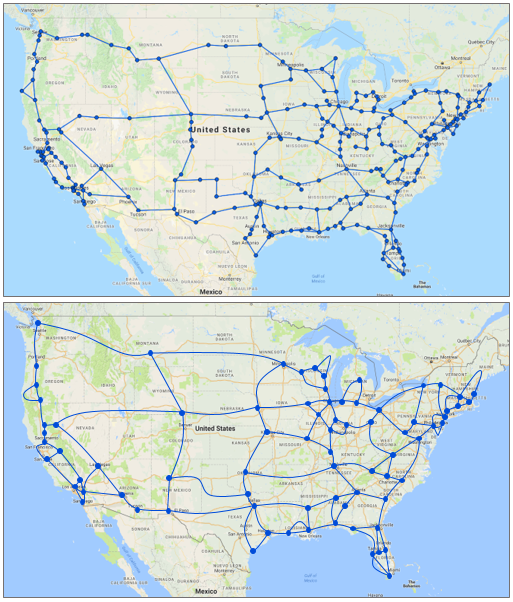
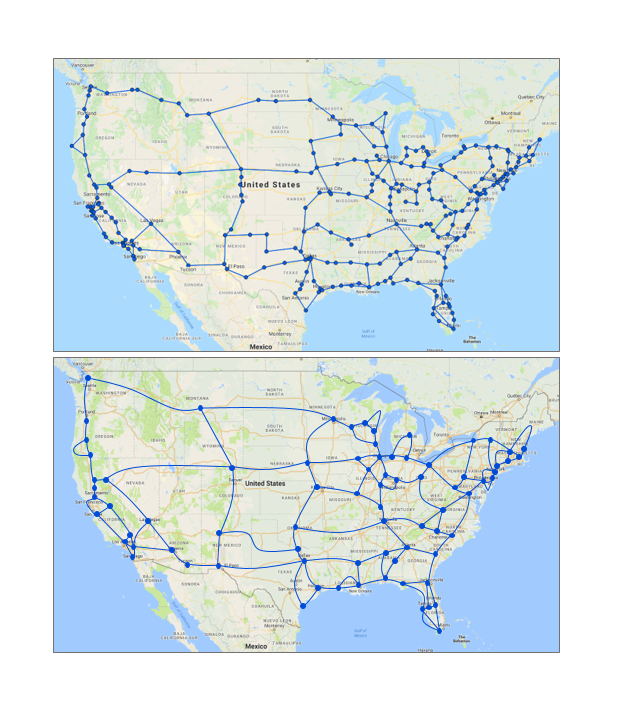
fixing

diff --git a/portfolio/index.html b/portfolio/index.html
@@ -199,8 +199,9 @@
                     <div class="col-lg-8 col-lg-offset-2">
                         <div class="modal-body">
                             <h3>MetaMesh</h3>
-                            <img src="/portfolio/style-net.png" class="img-responsive img-centered" />
-                            <p> I designed an ILP (Integer Linear Programming) model that produces a minimum-cost large-scale optical transport network that is fully restorable in the event of all possible dual span failures scenarios. <br /><br /><br /><center> <a href="https://github.com/andrescastillol/MM-DFMC"> Github </a> &nbsp; &nbsp; &nbsp; &nbsp; <a href="http://www.rndm.pl/2018/"> Paper </a> &nbsp; &nbsp; &nbsp; &nbsp; <a href="/documents/dissertation.pdf"> Thesis </a> </center></p>
+                            <img src="/portfolio/MetaMesh.png" class="img-responsive img-centered" />
+                            <p> I designed an ILP (Integer Linear Programming) model that produces a minimum-cost large-scale optical transport network that is fully restorable in the event of all possible dual span failures scenarios. I achieved up to 21% in reduction in
+                            capacity investment allowing savings in CAPEX and OPEX costs. <br /><br /><br /><center> <a href="https://github.com/andrescastillol/MM-DFMC"> Github </a> &nbsp; &nbsp; &nbsp; &nbsp; <a href="http://www.rndm.pl/2018/"> Paper </a> &nbsp; &nbsp; &nbsp; &nbsp; <a href="/documents/dissertation.pdf"> Thesis </a> </center></p>
                             <!-- <ul class="list-inline item-details">
                                 <li>
                                     <strong><a href="www.github.com">Github</a>
